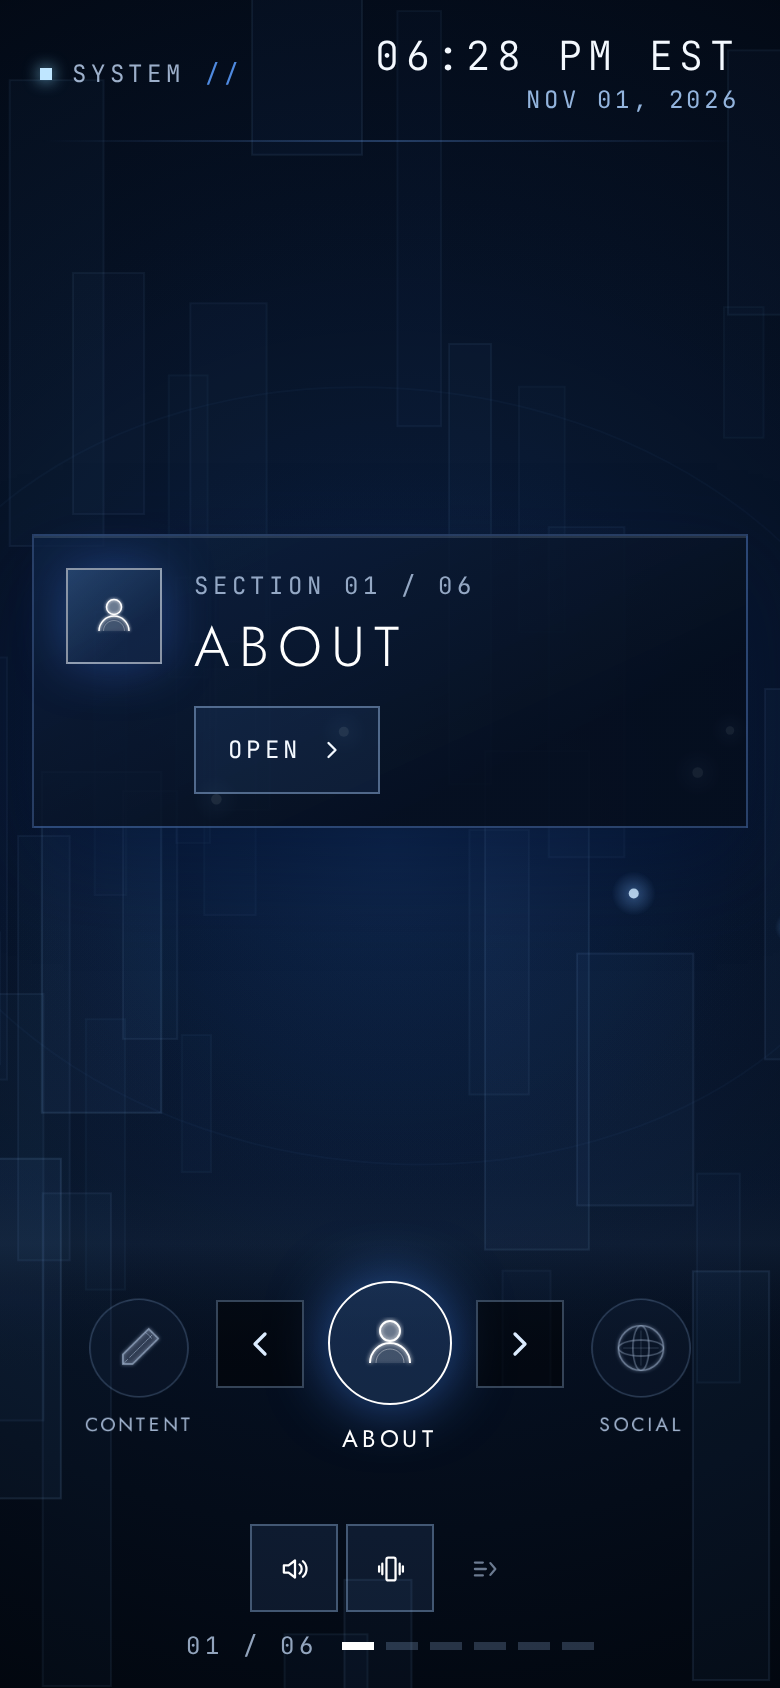
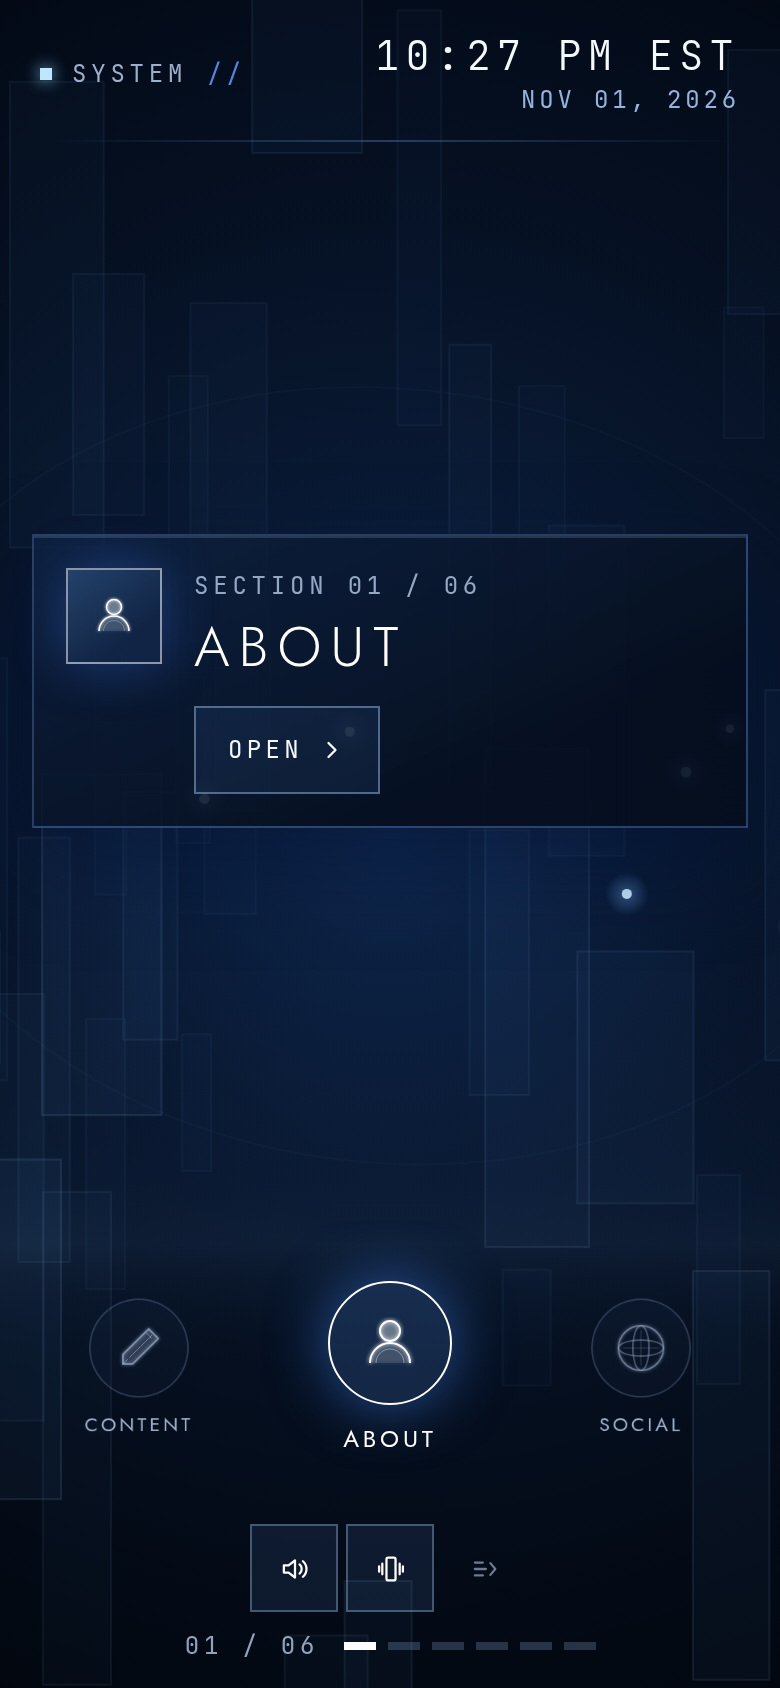
docs: refresh menu screenshots

diff --git a/docs/implementation-log.md b/docs/implementation-log.md
@@ -210,3 +210,12 @@ Headless Chrome against the production preview at 1440×900 (keyboard/mouse) and
 - **Order, counter and safe area — Done.** Under the tiles, `.menu-toggles` centres the three 44 px glyph buttons, then `.menu-counter` holds “01 / 06” and the six dashes with `padding: 0.5rem 1rem calc(0.75rem + env(safe-area-inset-bottom, 0px))`. The counter is the last row on every viewport: bottom edge 844 at 390×844, 900 at 1440×900, 664 at 390×664, 568 at 320×568, 390 at 844×390, all without overflow. Navigation, swipe, sound, haptics, motion and the reduced-motion transitions are untouched.
 - **Verification — Done.** `npx tsc --noEmit -p .`, `npm run lint`, `npm run build` (29 routes prerendered) and `npm run budget` exit 0; initial JS 104.1 KB gzip, CSS 13.7 KB gzip. Playwright against the production preview: arrows and orbs share a centre line (dy 0.0) at 390 and 1440, 44/48 px targets, no overlap with any label or neighbour icon from 320 to 1280, active circle centred; arrow clicks, keyboard Right/Left, pointer swipe, sound and motion toggles and their `jsb.prefs.v1` writes, Open, and Escape back all behave as before with zero console or page errors; the focus ring is the same 2 px white ring. With an iPhone user agent the silent-switch line still fits and adds no overflow. `menu-phone-after.png` (780×1688) and `menu-desktop-after.png` (1440×900) were retaken from the preview with the same boot/ready flow as `/workspace/gb/shots-after.py` and recompressed losslessly with pyoxipng level 4 (486 KB and 543 KB); they were checked by dimensions and byte size only.
 - **Stage Show source — Partial.** `.agents/skills/stageshow/SKILL.md` is absent from this checkout (only `kit/` and `examples/` remain), so the Stage Show rules were read from the existing copy at `/tmp/skills-3mAujD/stageshow/SKILL.md`. `.agents/skills/family-values/SKILL.md` is present and was cited directly.
+
+## Menu touch, haptics, layout and Satoshi tile — fix/menu-touch
+
+- **One-tap open and swipe anywhere — Done.** `components/MainMenu.tsx` now selects and opens any tile in one tap; `OPEN` still opens, and a tap on the selected-section panel (outside its button) opens too. Swipe handling moved from the tile strip to the `MainMenu` root with `touch-action: pan-y`; it decides after the 8 px axis threshold, ignores vertical movement, keeps taps intact, and suppresses the click that belongs to a swipe only. Drag translation is skipped under reduced motion while the gesture and section change remain. Keyboard arrows/Home/End/Enter are unchanged. **Guide:** Family Values' gradual revelation (the tile is the action, so one tap is enough) and fluidity (a horizontal gesture moves the row one step); Stage Show's one-primary-action rule and quiet hierarchy; WCAG 2.2 SC 2.5.1 (a single-pointer alternative exists for every swipe) and 2.3.3 (reduced motion removes the slide).
+- **Haptics — Done.** `utils/HapticManager.ts` keeps the Vibration API path and adds the iOS 18+ switch fallback: one visually hidden, `aria-hidden`, `tabindex="-1"` `<label><input type="checkbox" switch>` appended to `document.body`, clicked synchronously from the gesture handler. `utils/preferences.ts` detects iOS/iPadOS WebKit and `useHapticsAvailable()` now shows the toggle when either path works. Every swipe and tap section change fires a `tick`, and open fires the existing `confirm` pattern; keyboard arrows stay silent. Reduced motion no longer mutes touch feedback. **Guide:** Family Values' delight/restraint (one tactile tick per deliberate change) and equal polish (the control only appears where it can work); WCAG 2.2 SC 4.1.2 (the fallback is absent from the accessibility tree and tab order) and 2.5.8 (the visible toggles stay 44 px).
+- **Bottom controls — Done.** `styles/app.css` hides `.menu-edge` by default and shows the square arrows only under `@media (hover: hover) and (pointer: fine)`; their existing gap placement clears every orb and label at 320–1440 px. The toggle line and `01 / 06` counter stay centred on the active tile's axis, with the counter taking the bottom slot and `safe-area-inset-bottom` padding. The iOS silent-switch helper line was removed from `SystemToggles`, leaving no visible hint text. **Guide:** Stage Show's word budget and PS2 system-menu fidelity (quiet chrome, no instructional sentence); Family Values' simplicity; WCAG 2.2 SC 2.5.8 for the remaining fine-pointer controls.
+- **Satoshi Pacioli tile — Done.** `DesignTab` no longer passes the 720 × 280 intrinsic ratio to `SafeImage`, so the shared `.design-tile__image` square frame applies; the existing `object-fit: contain` and `0.5rem` padding give the wide mark the same inset as the square logos. **Guide:** Stage Show's "what is this?" fidelity and Family Values' equal-polish rule (the odd-sized mark gets the same frame as its neighbours).
+- **Verification — Done.** `npx tsc --noEmit -p .`, `npm run lint`, `npm run build` and `npm run budget` exit 0. `scripts/menu-touch-check.py` (Playwright, system Chrome) passed 44/44 checks: one tap opens Social at 390 × 844/hasTouch, the panel and `OPEN` open About, panel/header swipes move the counter, vertical swipes do nothing, a toggle tap after a swipe still flips, reduced-motion swipe works, tick/confirm vibrations fire, the iOS switch label exists once and toggles synchronously, desktop hover previews then click opens, arrows stay visible on fine pointers and clear every icon/label at 768–1440 px, and the Satoshi frame is square with padding. `menu-phone-after.png` (780 × 1688) and `menu-desktop-after.png` (1440 × 900) were retaken from the production preview and checked by dimensions, colour variety and byte size only.
+- **Stage Show source — Partial.** `.agents/skills/stageshow/SKILL.md` is absent from this checkout (only `kit/` and `examples/` remain), so the Stage Show rules were cited from the principles recorded in `docs/design-review.md`; `.agents/skills/family-values/SKILL.md` is present and was applied directly.
